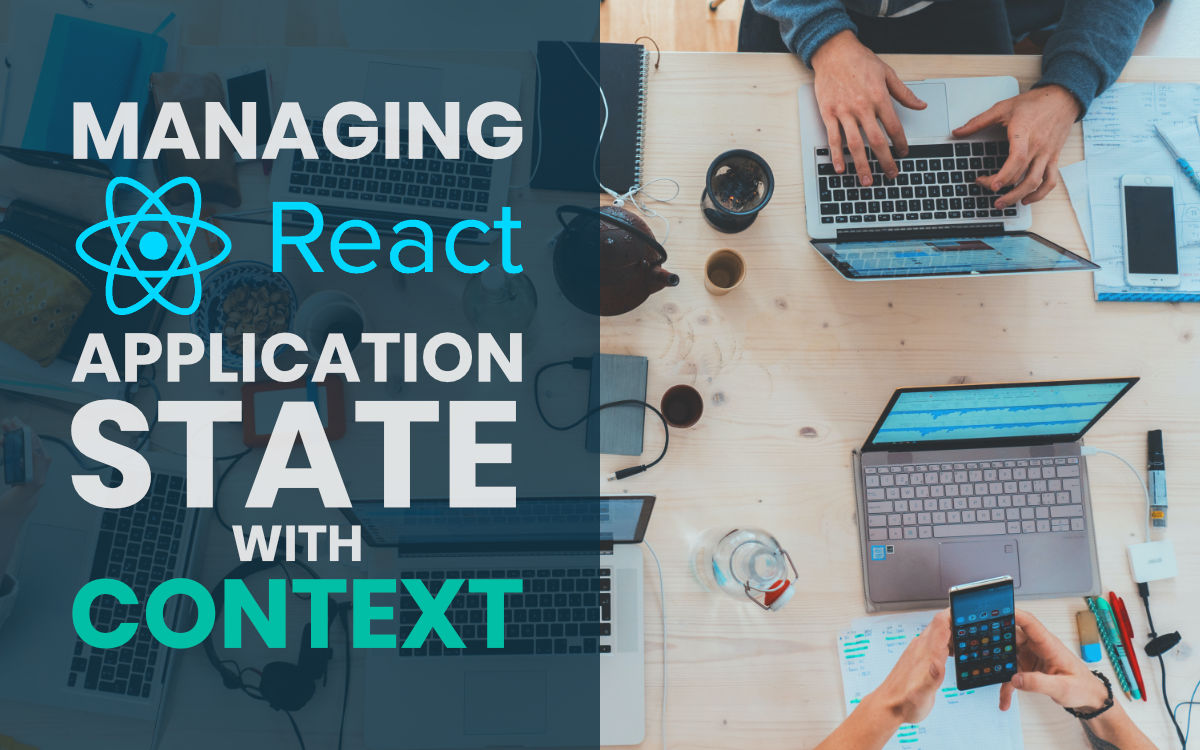
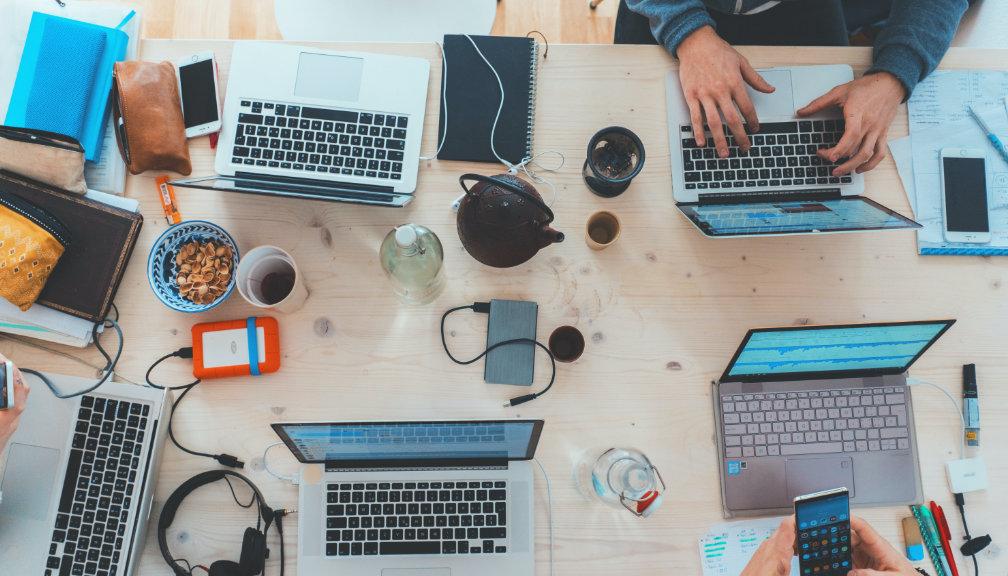
feat: updating blog images

diff --git a/src/pages/blog/azure-ad-authentication-in-cypress-tests-with-msal.md b/src/pages/blog/azure-ad-authentication-in-cypress-tests-with-msal.md
@@ -8,11 +8,8 @@ description: Its been over 2 years since I wrote about this; in that time
 heroImage: /assets/blog-header.jpg
 externalLink: https://blog.mechanicalrock.io/2022/08/08/azure-ad-authentication-cypress.html
 tags:
-  - azure ad
-  - activedirectory
   - cypress
   - authentication
-  - msal
   - react
 ---
 
@@ -33,6 +30,7 @@ So, at a high level we will:
 - [1. Acquire a token from Azure AD 🔑](#1-acquire-a-token-from-azure-ad-)
 - [2. Save the token to the session storage 💾](#2-save-the-token-to-the-session-storage-)
 - [3. Run the test ✅](#3-run-the-test-)
+- [E2E testing approach](#e2e-testing-approach)
 
 We will do all this in a [Cypress command](https://docs.cypress.io/api/cypress-api/custom-commands) so that we can run `cy.login()` to authenticate with Azure AD before our tests run. Custom commands are created in the `cypress/support/commands.ts` file by default.
 

diff --git a/src/pages/blog/updated-deploying-a-static-site-to-aws-using-github-actions.md b/src/pages/blog/updated-deploying-a-static-site-to-aws-using-github-actions.md
@@ -12,10 +12,7 @@ heroImage: /assets/updated-github.jpg
 tags:
   - aws
   - github
-  - github actions
-  - static site
-  - continuous integration
-  - continuous delivery
+  - devops
 ---
 
 It has been just under a year since I wrote [my initial blog post](https://www.timveletta.com/blog/2020-07-08-deploying-a-static-site-to-aws-using-github-actions/) about deploying static sites to AWS via GitHub Actions and a number of things have changed since then. Github Actions has now been generally available for some time and although number of the referenced actions have changed, the main principles remain the same. In this post I'll explain my process for deploying static sites to AWS using Github Actions in greater detail and whats changed since the initial version of the article.

diff --git a/src/pages/blog/accessing-react-state-in-your-component-cleanup-with-hooks.md b/src/pages/blog/accessing-react-state-in-your-component-cleanup-with-hooks.md
@@ -10,8 +10,6 @@ prevUrl: /blog/2020-07-14-accessing-react-state-in-your-component-cleanup-with-h
 heroImage: /assets/react-cleanup.jpg
 tags:
   - react
-  - state
-  - hooks
 ---
 
 Today I came across an interesting problem where I needed to access a piece of React state when unmounting a component, a problem that would have been trivial with Class components and `componentWillUnmount`, however with hooks, the solution was less clear.

diff --git a/src/pages/blog/scaffolding-your-aws-single-page-application-infrastructure-with-cdk.md b/src/pages/blog/scaffolding-your-aws-single-page-application-infrastructure-with-cdk.md
@@ -10,12 +10,8 @@ externalLink: https://mechanicalrock.github.io/2020/08/24/scaffolding-single-pag
 tags:
   - aws
   - cdk
-  - static site
   - react
-  - cloud development kit
-  - infrastructure as code
-  - spa
-  - single page application
+  - devops
 ---
 
 > This post was originally published on the [Mechanical Rock Blog](https://mechanicalrock.github.io/2020/08/24/scaffolding-single-page-applications-with-cdk.html)

diff --git a/src/pages/blog/managing-react-application-state-with-context.md b/src/pages/blog/managing-react-application-state-with-context.md
@@ -9,9 +9,6 @@ heroImage: /assets/react-application-state.jpg
 externalLink: https://mechanicalrock.github.io/2021/05/27/managing-react-application-state-with-context.html
 tags:
   - react
-  - context
-  - application state
-  - redux
 ---
 
 > This post was originally published on the [Mechanical Rock Blog](https://mechanicalrock.github.io/2021/05/27/managing-react-application-state-with-context.html)

diff --git a/src/pages/blog/deploying-a-static-site-to-aws-using-github-actions.md b/src/pages/blog/deploying-a-static-site-to-aws-using-github-actions.md
@@ -9,10 +9,7 @@ heroImage: /assets/aws-github.jpg
 tags:
   - aws
   - github
-  - github actions
-  - static site
-  - continuous integration
-  - continuous delivery
+  - devops
 ---
 
 I was fortunate enough to get a beta invite to Github Actions earlier this week so I figured I would try to deploy a static website to AWS as a way of comparing with other tools such as GitLab and AWS CodeBuild.

diff --git a/src/pages/blog/direct-lambda-resolvers-with-aws-amplify.md b/src/pages/blog/direct-lambda-resolvers-with-aws-amplify.md
@@ -8,7 +8,7 @@ description: AWS Amplify is fantastic; it has never been easier to build and
   API using AppSync and have it just work but what happens when you need to
   perform additional logic?
 prevUrl: /blog/2020-12-08-direct-lambda-resolvers-with-aws-amplify/
-heroImage: /assets/lambda-direct.jpg
+heroImage: /assets/direct-lambda-resolvers.jpg
 tags:
   - aws
   - amplify

diff --git a/src/pages/blog/refreshing-my-blog-with-netlify-cms-and-tailwind-css.md b/src/pages/blog/refreshing-my-blog-with-netlify-cms-and-tailwind-css.md
@@ -11,8 +11,7 @@ tags:
   - netlify
   - gatsby
   - react
-  - tailwindcss
-  - design
+  - tailwind
 ---
 
 I has come time for my annual website redesign and refresh. You're probably thinking, why bother redesigning your website every single year and to be honest, it's not really intentional; it just takes me about a year to get sick of the design enough to want to redo it.

diff --git a/src/pages/blog/just-enough-css-grid-to-be-dangerous.md b/src/pages/blog/just-enough-css-grid-to-be-dangerous.md
@@ -8,9 +8,7 @@ description: CSS Grid is one of my favourite tools for building your web
 heroImage: /assets/css-grid.jpg
 externalLink: https://mechanicalrock.github.io/2020/04/28/css-grid.html
 tags:
-  - design
   - css
-  - grid
 ---
 
 > This post was originally published on the [Mechanical Rock Blog](https://mechanicalrock.github.io/2020/04/28/css-grid.html)

diff --git a/src/pages/blog/azure-ad-authentication-in-cypress-tests.md b/src/pages/blog/azure-ad-authentication-in-cypress-tests.md
@@ -8,11 +8,8 @@ description: 'Cypress is a browser-based, end-to-end testing framework that is
 heroImage: /assets/cypress.jpg
 externalLink: https://mechanicalrock.github.io/2020/05/05/azure-ad-authentication-cypress.html
 tags:
-  - azure
-  - activedirectory
   - cypress
   - authentication
-  - adal
   - react
 ---
 

diff --git a/src/pages/blog/publishing-typescript-npm-modules.md b/src/pages/blog/publishing-typescript-npm-modules.md
@@ -7,10 +7,7 @@ description: Understanding how to build your own NPM modules can enable your
 heroImage: /assets/typescript-npm-modules-header.jpg
 externalLink: https://mechanicalrock.github.io/2022/01/24/publishing-typescript-npm-modules.html
 tags:
-  - typescript
   - npm
-  - node
-  - material ui
   - react
 ---
 

diff --git a/src/pages/blog/private-npm-modules-with-github-packages.md b/src/pages/blog/private-npm-modules-with-github-packages.md
@@ -9,8 +9,6 @@ externalLink: https://mechanicalrock.github.io/2022/04/04/private-npm-modules.ht
 tags:
   - github
   - npm
-  - node
-  - typescript
 ---
 
 > This post was originally published on the [Mechanical Rock Blog](https://mechanicalrock.github.io/2022/04/04/private-npm-modules.html)
